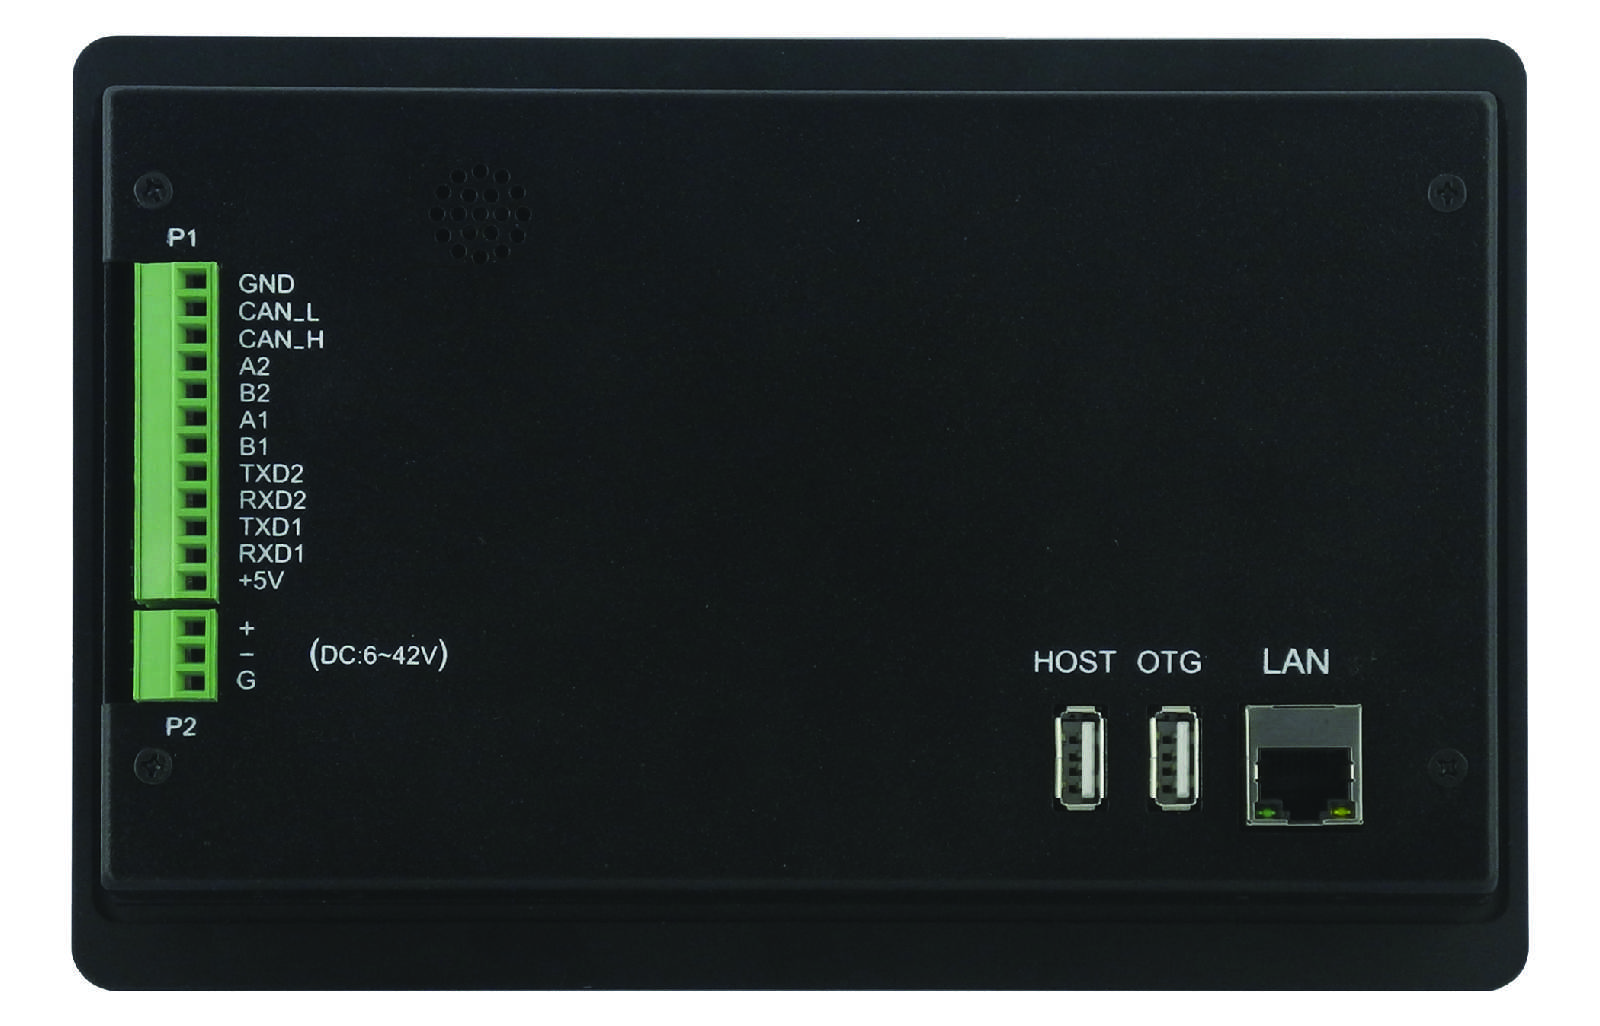
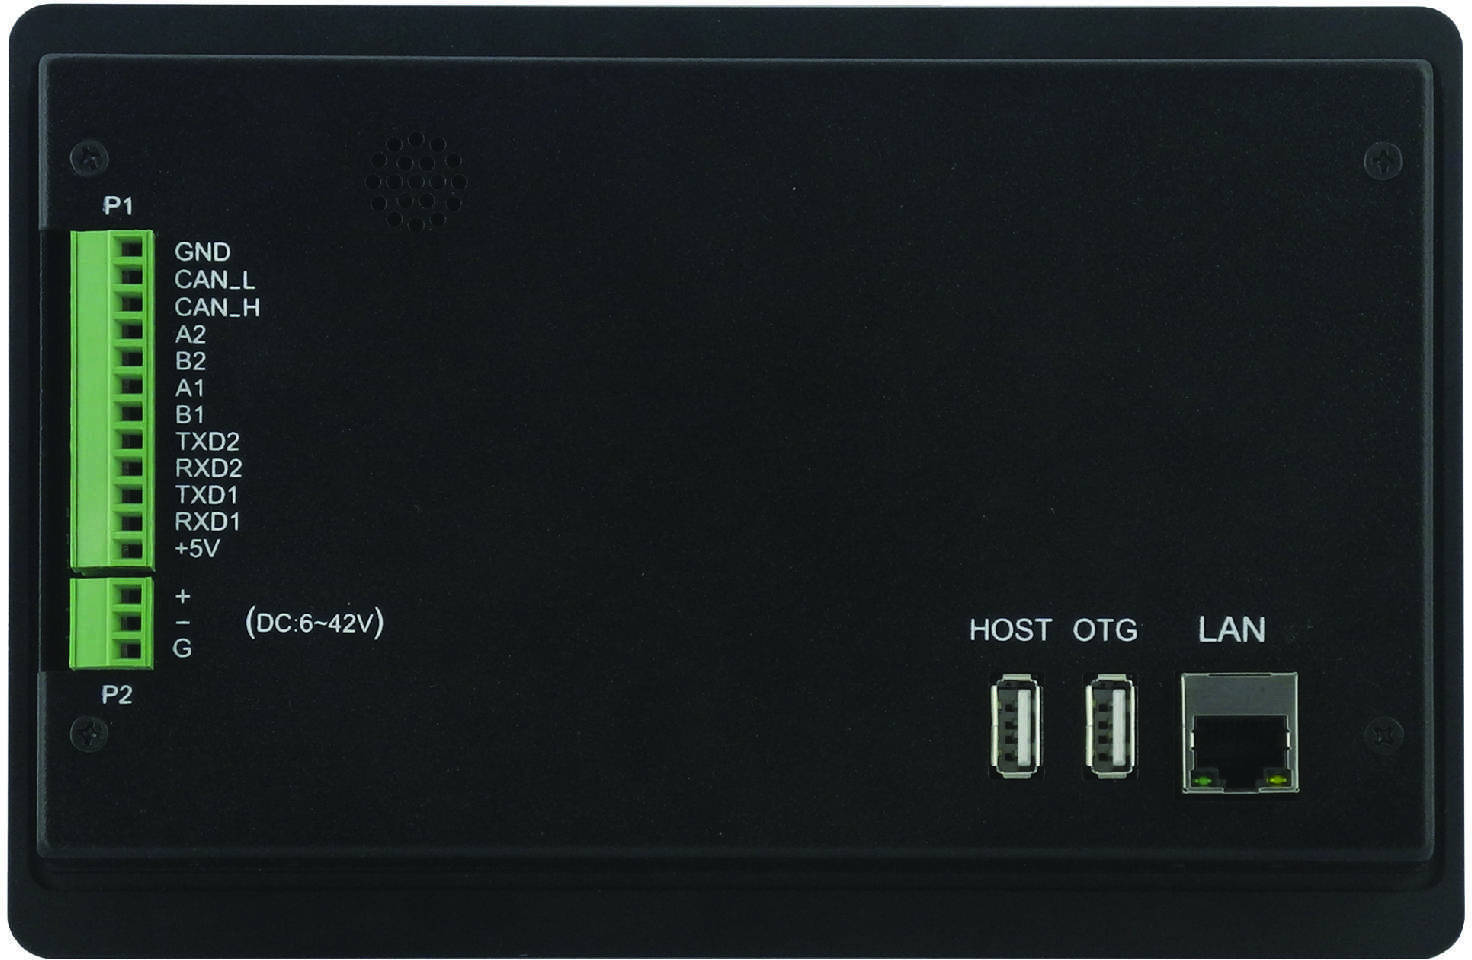
Added PDF build for docs/source/PCs/ARM/AM335X/Manuals/Hardware/CS10600T070.rst

Changed region(s): [[0.0, 0.0, 1.0, 1.0]]

diff --git a/docs/source/_static/css/pdf_custom.css b/docs/source/_static/css/pdf_custom.css
@@ -1,11 +1,10 @@
 @media print {
 
-/*
     h2,
     h3 {
         string-set: chapter content();
     }
-
+/*
     h2::before,
     h3::before,
     h4::before,
@@ -22,12 +21,8 @@
 
     @page {
 
-        margin: 15mm 10mm;
-        padding: 5mm 0;
-
         @top-right {
             font-size: 9pt;
-            font-family: var(--md-text-font);
             height: initial;
             width: initial;
             max-width: initial;
@@ -36,24 +31,30 @@
         @top-right {
             content: string(chapter);
             font-size: 9pt;
+            font-family: 'Open Sans', sans-serif!important;
         }
 
         @top-left {
             content: var(--title);
+            font-family: 'Open Sans', sans-serif!important;
         }
 
         @bottom-center {
             font-size: 9pt;
             content: var(--type);
             text-transform: uppercase;
+            font-family: 'Open Sans', sans-serif!important;
+            font-weight: 600!important;
         }
 
         @bottom-right {
             content: "Page " counter(page) " of " counter(pages);
+            font-family: 'Open Sans', sans-serif!important;
         }
 
         @bottom-left {
             content: var(--author);
+            font-family: 'Open Sans', sans-serif!important;
         }
     }
 

diff --git a/docs/source/conf.py b/docs/source/conf.py
@@ -147,7 +147,7 @@ pygments_style = "sphinx"
 
 # Sphinx-PDF-Generate configurations
 pdfgen_verbose = False
-pdfgen_site_url = "http://127.0.0.1:8000"
+pdfgen_site_url = "https://docs.chipsee.com"
 pdfgen_debug = True
 pdfgen_debug_target = "PCs/ARM/AM335X/Manuals/Hardware/CS10600T070.rst"
 pdfgen_author = "Chipsee"

diff --git a/docs/source/PCs/ARM/AM335X/Manuals/Hardware/CS10600T070.rst b/docs/source/PCs/ARM/AM335X/Manuals/Hardware/CS10600T070.rst
@@ -69,6 +69,7 @@
 #########
 
 .. rubric:: *Version 1.0*
+    :class: html-only
 
 .. You must add the `product-img img-thumbnail mx-auto d-block` word
 .. to the image class directive in order for the thumbnail feature to work
@@ -96,7 +97,7 @@
     <div class="col-12 col-sm-6 col-lg-3 g-3" style="cursor: pointer;">
 
 .. image:: /Media/ARM/A8/CS10600T070/PPC-A8-070H-C-Back.jpeg
-   :class: product-img img-thumbnail mx-auto d-block
+   :class: product-img img-thumbnail mx-auto d-block pdf-width-70
    :alt: Back View (Panel Mounting Variant)
 
 .. raw:: html
@@ -144,9 +145,15 @@
 
 .. include:: Resources/table
 
+:pagebreak:`True`
+
 .. include:: Resources/power
 
+:pagebreak:`True`
+
 .. include:: Resources/cap_screen
+
+:pagebreak:`True`
 
 .. include:: Resources/connectivity
 
@@ -155,6 +162,8 @@
 .. include:: Resources/LAN
 
 .. include:: Resources/WiFi
+
+:pagebreak:`True`
 
 .. include:: Resources/expansion_IO
 
@@ -181,6 +190,8 @@ product measurements.
 
    |productE| *Technical Drawing*
 
+:pagebreak:`True`
+
 |productP|
 ----------
 For |productP|, the outer mechanical dimensions are |dimP| (W x L x H). Please refer to the technical drawing in the figure below for details related to the specific
@@ -191,6 +202,8 @@ product measurements.
    :figclass: align-center
 
    |productP| *Technical Drawing*
+
+:pagebreak:`True`
 
 .. include:: Resources/mount_set
 
